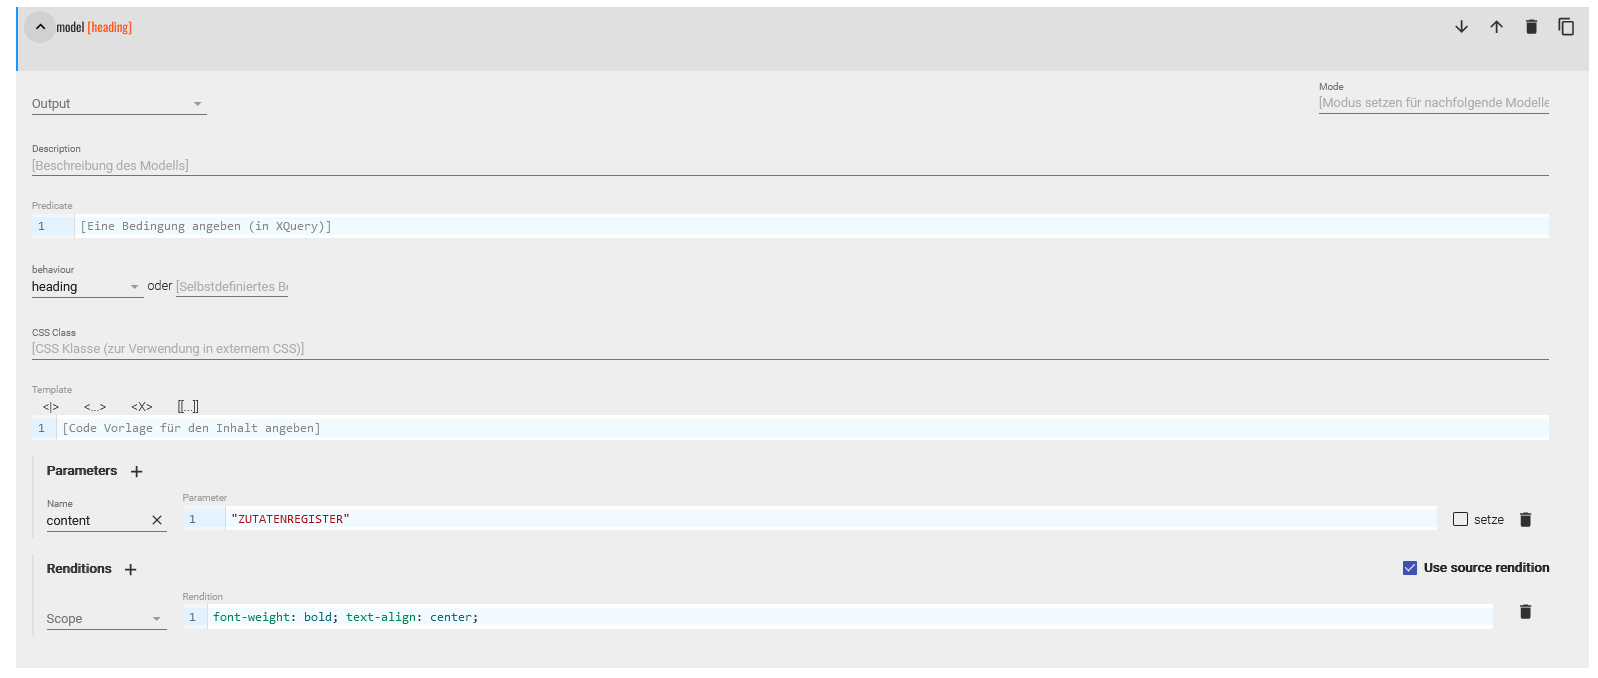
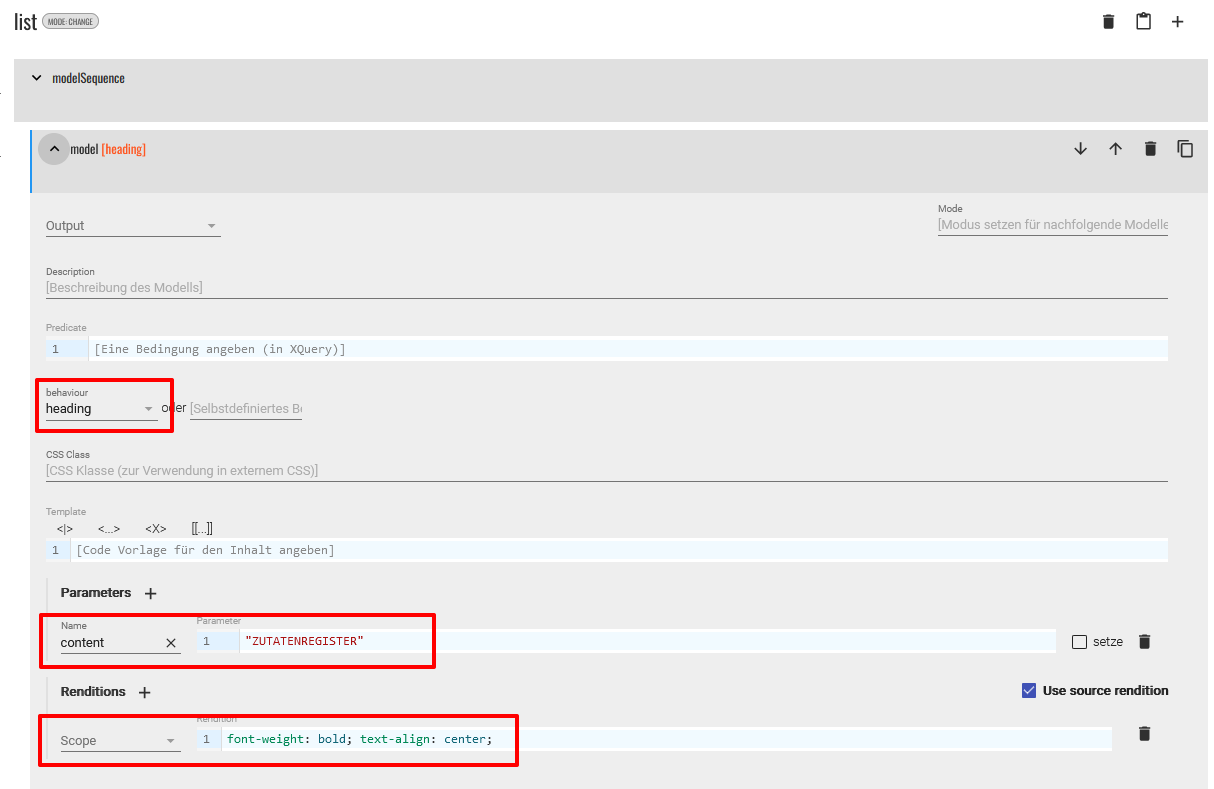
teipublisher update

diff --git a/_posts/2023-10-09-teipublisher.md b/_posts/2023-10-09-teipublisher.md
@@ -199,26 +199,26 @@ Für eine vollständige Publikationsansicht (Content View) benötigt man die TEI
     Wenn wir anschließend in einem anderen Browser-Tab die Manuskript-Ansicht öffnen (oder dieses aktualisieren), sehen wir unsere Änderungen bereits.
     {% include image.html url="../data/pipelines/pipeline_1/teipublisher/img/publication-view.PNG" description="Ansicht der ODD-Änderung im Manuskript" %}
     → Sollten die Änderungen nicht sichtbar sein, muss möglicherweise überprüft werden, ob das Dokument nach wie vor mit dem eigenen ODD verknüpft ist (da sich dies mitunter automatisch auf die Standardeinstellung zurücksetzt) oder ob man nach wie vor eingeloggt ist (da man oft selbst nach kürzeren Pausen automatisch ausgeloggt wird). Es kann auch nötig sein, mit F5 zu aktualisieren oder den Cache zu leeren, um die Änderungen zu sehen.
-* Wenn wir nun ein Element anlegen, das im Standard-ODD-Template noch keine Modul-Spezifikationen besitzt, wie in diesem Fall das `<term>`-Element, dann müssen wir nach dem Hinzufügen des Elements außerdem das Plus-Zeichen  in der Elementansicht anklicken. 
+* Wenn wir nun ein Element anlegen, das im Standard-ODD-Template noch keine Modul-Spezifikationen besitzt, wie in diesem Fall das `<term>`-Element, dann müssen wir nach dem Hinzufügen des Elements außerdem das Plus-Zeichen  in der Elementansicht anklicken.
     {% include image.html url="../data/pipelines/pipeline_1/teipublisher/img/add-new-element.PNG" description="Weitere Modulspezifikation hinzufügen" %}
-    Wir möchten unsere Zutaten mit einer punktierten Unterstreichung hervorheben und müssen daher in dem Eingabefeld für die Rendition den entsprechenden CSS-Code angeben: 
+    Wir möchten unsere Zutaten mit einer punktierten Unterstreichung hervorheben und müssen daher in dem Eingabefeld für die Rendition den entsprechenden CSS-Code angeben:
     ```css
-    text-decoration-line: underline; text-decoration-style: dotted; 
-    ``` 
+    text-decoration-line: underline; text-decoration-style: dotted;
+    ```
     Außerdem möchten wir in der Webansicht ein Popover über das `<term>`-Element legen, in dem einerseits der Wikidata-Link zu der in [OpenRefine erstellten normalisierten Entität](https://digedtnt.github.io/openrefine/) und andererseits eine Information mit Link zum Register erscheint. Zuerst stellen wir dafür das  behaviour auf "alternate" und geben zwei Parameter an. Einmal den "default"-Parameter, wo wir nur einen Punkt setzen, da wir standardmäßig den Inhalt des `<term>`-Elements angezeigt bekommen wollen, und als "alternate"-Parameter geben wir an, was im Popover angezeigt werden soll. Wir möchten hier gerne die Informationen aus dem Register anzeigen lassen und wählen daher den entsprechenden XPath dorthin:
     ```xml
     id(substring-after(@key, '#'), doc("/db/apps/tei-publisher/data/playground/Sachbegriffe.xml"))
     ```
     {% include image.html url="../data/pipelines/pipeline_1/teipublisher/img/model-term-odd.PNG" description="Bearbeitung des Modells des `<term>`-Elements im ODD" %}
-    Wenn wir nun wieder zur Ansicht unseres Dokuments wechseln, sehen wir, dass die Zutaten unterstrichen sind und beim Bewegen des Mauszeigers über die Zutat ein Popover mit allen Informationen aus dem Register, die es für das `<item>`-Element, auf welches das `<term>`-Element referenziert, erscheint. Da wir für die Kindelemente des `<item>`-Elements aus dem Register noch keine Modelle erstellt haben, werden vorerst nur die Inhalte dieser Elemente in direkter Aneinanderreihung ausgegeben. 
+    Wenn wir nun wieder zur Ansicht unseres Dokuments wechseln, sehen wir, dass die Zutaten unterstrichen sind und beim Bewegen des Mauszeigers über die Zutat ein Popover mit allen Informationen aus dem Register, die es für das `<item>`-Element, auf welches das `<term>`-Element referenziert, erscheint. Da wir für die Kindelemente des `<item>`-Elements aus dem Register noch keine Modelle erstellt haben, werden vorerst nur die Inhalte dieser Elemente in direkter Aneinanderreihung ausgegeben.
     {% include image.html url="../data/pipelines/pipeline_1/teipublisher/img/model-term-pub.PNG" description="Vorerst unstrukturierte Ausgabe der Informationen aus dem Register im Popover" %}
-    * Als nächstes passen wir die Modellspezifikationen der Kindelemente der Registereinträge an. Die `<item>`-Elemente in unserem Register (Sachbegriffe.xml), auf das wir verlinken,  beinhalten ein `<idno>`-Element mit der Wikidata-Referenz, ein `<label>`-Element mit dem Attribut `@type="reg"` für die reguläre Schreibweise sowie ein `<label>`-Element mit dem Attribut `@type="alt"` für die diversen frühneuhochdeutschen Varianten. 
+    * Als nächstes passen wir die Modellspezifikationen der Kindelemente der Registereinträge an. Die `<item>`-Elemente in unserem Register (Sachbegriffe.xml), auf das wir verlinken,  beinhalten ein `<idno>`-Element mit der Wikidata-Referenz, ein `<label>`-Element mit dem Attribut `@type="reg"` für die reguläre Schreibweise sowie ein `<label>`-Element mit dem Attribut `@type="alt"` für die diversen frühneuhochdeutschen Varianten.
     {% include image.html url="../data/pipelines/pipeline_1/teipublisher/img/register-structure.PNG" description="Aufbau des item-Elements im Register" %}
     Da wir einerseits den Inhalt des `<idno>`-Elements als Link im Popover haben möchten, zusätzlich aber noch eine Zeile mit einem Verweis auf das Register, müssen wir für diese zwei Aktionen zum gleichen Element zuerst eine Modellsequenz anlegen. Diese beschränken wir auf jene `<idno>`-Elemente mit dem Attribut `@type="uri"` und legen darin zwei weitere Modelle an.
     {% include image.html url="../data/pipelines/pipeline_1/teipublisher/img/model-sequence-idno-odd.PNG" description="Modellsequenz für das idno-Element" %}
-    In der ersten neu angelegten Modellspezifikation wählen wir anschließend als behaviour "link" aus. Bei den Parametern wählen wir nun "uri" und verweisen dabei mit einem Punkt auf den Inhalt `<idno>`-Elementes. 
+    In der ersten neu angelegten Modellspezifikation wählen wir anschließend als behaviour "link" aus. Bei den Parametern wählen wir nun "uri" und verweisen dabei mit einem Punkt auf den Inhalt `<idno>`-Elementes.
     {% include image.html url="../data/pipelines/pipeline_1/teipublisher/img/model-idno-link-odd.PNG" description="Modellspezifikation für einen Link" %}
-    In der zweiten Modellspezifikation möchten wir nun einen kleinen Informationstext mit Link zum Zutatenregister erstellen. Dafür wählen wir als behaviour "block" und erstellen ein Template in HTML für diese Text, der in einem `<div>`-Element angezeigt werden soll: 
+    In der zweiten Modellspezifikation möchten wir nun einen kleinen Informationstext mit Link zum Zutatenregister erstellen. Dafür wählen wir als behaviour "block" und erstellen ein Template in HTML für diese Text, der in einem `<div>`-Element angezeigt werden soll:
     ```html
     <div>Siehe weitere Schreibweisen dieser Zutat im <a href="[[register]]" traget="_blank">Register</a></div>
     ```
@@ -226,55 +226,89 @@ Für eine vollständige Publikationsansicht (Content View) benötigt man die TEI
     ```xml
     concat('Sachbegriffe.xml?view=div&#38;odd=ma-zutaten', '#’, parent::item/@xml:id')
     ```
-    Um in unserem Zutatenregister direkt zu der Zutat zu springen, dessen Popover gerade betrachtet wird, müssen wir die entsprechende XML-Datei (Sachbegriffe.xml) angeben, die aufgerufen werden soll, und zudem welches ODD-Template (ma-zutaten.odd ohne Dateiendung) für die Darstellung gewählt werden soll. Wir geben zudem an, dass nach dem Aufrufen des Registers, jenes Element ausgewählt werden soll, das wir gerade angewählt haben. (Näheres zum ma-zutaten.odd siehe unter Abschnitt [b. Bearbeitung des ODD des Zutatenregisters](https://digedtnt.github.io/teipublisher/#b-bearbeitung-des-odd-des-zutatenregisters)) Dafür gehen wir von dem `<idno>`-Element ausgehend, in das übergeordnete `<item>`-Element, dessen `@xml:id` auf die Zutat im Sachregister verweist (parent::item/@xml:id). 
+    Um in unserem Zutatenregister direkt zu der Zutat zu springen, dessen Popover gerade betrachtet wird, müssen wir die entsprechende XML-Datei (Sachbegriffe.xml) angeben, die aufgerufen werden soll, und zudem welches ODD-Template (ma-zutaten.odd ohne Dateiendung) für die Darstellung gewählt werden soll. Wir geben zudem an, dass nach dem Aufrufen des Registers, jenes Element ausgewählt werden soll, das wir gerade angewählt haben. (Näheres zum ma-zutaten.odd siehe unter Abschnitt [b. Bearbeitung des ODD des Zutatenregisters](https://digedtnt.github.io/teipublisher/#b-bearbeitung-des-odd-des-zutatenregisters)) Dafür gehen wir von dem `<idno>`-Element ausgehend, in das übergeordnete `<item>`-Element, dessen `@xml:id` auf die Zutat im Sachregister verweist (parent::item/@xml:id).
     {% include image.html url="../data/pipelines/pipeline_1/teipublisher/img/model-idno-block-odd.PNG" description="Zweites Modell für das idno-Element" %}
-    Nun muss abschließend noch die Darstellung der `<label>`-Elemente modifiziert werden. Damit diese nicht alle im Popover erscheinen, legen wir eine Modellspezifikation für alle  `<label>`-Elemente, unabhängig von ihrem Attributwert an. Da wir alle Elementinhalte ausblenden wollen, wählen wir als behaviour "omit" aus. 
+    Nun muss abschließend noch die Darstellung der `<label>`-Elemente modifiziert werden. Damit diese nicht alle im Popover erscheinen, legen wir eine Modellspezifikation für alle  `<label>`-Elemente, unabhängig von ihrem Attributwert an. Da wir alle Elementinhalte ausblenden wollen, wählen wir als behaviour "omit" aus.
     {% include image.html url="../data/pipelines/pipeline_1/teipublisher/img/model-label-odd.PNG" description="Modellspezifikation für das Unterdrücken von label-Elementen" %}
     Wenn wir uns jetzt erneut unser aktualisiertes Dokument ansehen und die Maus über eine Zutat bewegen, sieht der Inhalt des Popovers bereits anders aus.
     {% include image.html url="../data/pipelines/pipeline_1/teipublisher/img/model-term-idno-pop-over.PNG" description="Modifiziertes Popover mit einem Link zu Wikidata und zum projektspezifischen Register" %}
-    Während uns der obere Link direkt zur entsprechenden Wikidata-Entität führt, kommen wir über den Link zum Register direkt an die entsprechende Stelle im Zutatenregister, wo die ausgewählte Zutat in die Mitte des Browsertabs gerückt wird. 
+    Während uns der obere Link direkt zur entsprechenden Wikidata-Entität führt, kommen wir über den Link zum Register direkt an die entsprechende Stelle im Zutatenregister, wo die ausgewählte Zutat in die Mitte des Browsertabs gerückt wird.
     {% include image.html url="../data/pipelines/pipeline_1/teipublisher/img/popover-to-register.PNG" description="Verknüpfung mit der Zutat im Register" %}
-* In der XML-Datei unseres Projektes haben wir nun außerdem noch Auszeichnungen  für Streichungen und Hinzufügungen durch die/den ursprüngliche:n Schreiber:in in Form von `<del>` und `<add>`, Abkürzungen und deren Langform im `<choice>`-Element, Hinzufügungen durch Editor:innen oder Transkribierende als `<supplied>` und Fußnoten als `<note>`. Unser projektspezifisches ODD wurde auf Basis eines Standard-ODD generiert, in dem bereits einige grundlegende Modellspezifikationen für jene Elemente angelegt wurden, die häufig in digitalen Editionen vorkommen. Dementsprechend gibt es auch für alle genannten Elemente bereits Modelle. Während einige dieser Standard-Darstellungen ganz gut für unser Projekt passen, möchten wir andere noch anpassen. 
-* Starten wir also der Reihe nach zuerst mit der Modellspezifikation für `<del>`. Diese sieht standardmäßig als Rendition einen durchgestrichenen Text vor. Da dieses Element laut [Auszeichnungsrichtlinien für Manuskripte im DTA-Basisformat](https://www.deutschestextarchiv.de/doku/basisformat/msAddDel.html) (dessen Schema wir im Zuge der [Annotation in ediarum](https://digedtnt.github.io/ediarum/) verwendet haben) jedoch verschiedene Werte im `@rendition`-Attribut haben kann, wollen wir im Modell für das `<del>`-Element etwas spezifischer sein und fügen dort hinzu, dass das Rendering als durchgestrichener Text nur für `<del>`-Elemente mit `@rendition="#s"` gelten soll. 
-    {% include image.html url="../data/pipelines/pipeline_1/teipublisher/img/model-del-odd.PNG" description="Angabe einer Bedingung (Predicate) im Model des del-Elements" %} 
-    In der Publikationsansicht des TEI Publisher sehen `<del>`-Elemente entsprechend so aus: 
+* In der XML-Datei unseres Projektes haben wir nun außerdem noch Auszeichnungen  für Streichungen und Hinzufügungen durch die/den ursprüngliche:n Schreiber:in in Form von `<del>` und `<add>`, Abkürzungen und deren Langform im `<choice>`-Element, Hinzufügungen durch Editor:innen oder Transkribierende als `<supplied>` und Fußnoten als `<note>`. Unser projektspezifisches ODD wurde auf Basis eines Standard-ODD generiert, in dem bereits einige grundlegende Modellspezifikationen für jene Elemente angelegt wurden, die häufig in digitalen Editionen vorkommen. Dementsprechend gibt es auch für alle genannten Elemente bereits Modelle. Während einige dieser Standard-Darstellungen ganz gut für unser Projekt passen, möchten wir andere noch anpassen.
+* Starten wir also der Reihe nach zuerst mit der Modellspezifikation für `<del>`. Diese sieht standardmäßig als Rendition einen durchgestrichenen Text vor. Da dieses Element laut [Auszeichnungsrichtlinien für Manuskripte im DTA-Basisformat](https://www.deutschestextarchiv.de/doku/basisformat/msAddDel.html) (dessen Schema wir im Zuge der [Annotation in ediarum](https://digedtnt.github.io/ediarum/) verwendet haben) jedoch verschiedene Werte im `@rendition`-Attribut haben kann, wollen wir im Modell für das `<del>`-Element etwas spezifischer sein und fügen dort hinzu, dass das Rendering als durchgestrichener Text nur für `<del>`-Elemente mit `@rendition="#s"` gelten soll.
+    {% include image.html url="../data/pipelines/pipeline_1/teipublisher/img/model-del-odd.PNG" description="Angabe einer Bedingung (Predicate) im Model des del-Elements" %}
+    In der Publikationsansicht des TEI Publisher sehen `<del>`-Elemente entsprechend so aus:
     {% include image.html url="../data/pipelines/pipeline_1/teipublisher/img/model-del-pub.PNG" description="Rendering des del-Elements in der Publikationsansicht" %}
-* Gehen wir im ODD-Editor nun zu den Spezifikationen des `<add>`-Elements. Auch dort nehmen wir ein paar Änderungen vor, indem wir das bestehende Modell auf das Attribut `@place="superlinear"`-Element beschränken und dort die Darstellung mit dem entsprechenden CSS Code insofern adaptieren, dass diese eingefügten Textstellen hochgestellt und in einem Braunton erscheinen. 
-    {% include image.html url="../data/pipelines/pipeline_1/teipublisher/img/model-add-odd.PNG" description="Anpassung der Modellspezifikation für add-Elemente" %} 
+* Gehen wir im ODD-Editor nun zu den Spezifikationen des `<add>`-Elements. Auch dort nehmen wir ein paar Änderungen vor, indem wir das bestehende Modell auf das Attribut `@place="superlinear"`-Element beschränken und dort die Darstellung mit dem entsprechenden CSS Code insofern adaptieren, dass diese eingefügten Textstellen hochgestellt und in einem Braunton erscheinen.
+    {% include image.html url="../data/pipelines/pipeline_1/teipublisher/img/model-add-odd.PNG" description="Anpassung der Modellspezifikation für add-Elemente" %}
     Nach dem Aktualisieren in der Publikationsansicht, wird das `<add>`-Element entsprechend unserer Änderungen dargestellt.
     {% include image.html url="../data/pipelines/pipeline_1/teipublisher/img/model-del-pub.PNG" description="Rendering des add-Elements in der Publikationsansicht" %}
-* Für `<choice>`-Elemente gibt es ebenfalls bereits Voreinstellungen, die beim Generieren des projektspezifischen ODD mitübernommen wurden. Standardmäßig wird dabei die Langform ausgegeben und die Abkürzung in einem Popover angezeigt. Wir möchten dies jedoch umkehren und wie im Originaltext nur die Abkürzung anzeigen und diese farblich markieren, um Nutzer:innen unserer Edition anzuzeigen, dass diese Textstelle besonders ist und somit eine Erkundung der Stelle mit der Maus zu motivieren. Im Popover wird schließlich die Langform angezeigt. 
-    {% include image.html url="../data/pipelines/pipeline_1/teipublisher/img/model-choice-odd.PNG" description="Änderung der Modellspezifikation für choice-Elemente" %} 
+* Für `<choice>`-Elemente gibt es ebenfalls bereits Voreinstellungen, die beim Generieren des projektspezifischen ODD mitübernommen wurden. Standardmäßig wird dabei die Langform ausgegeben und die Abkürzung in einem Popover angezeigt. Wir möchten dies jedoch umkehren und wie im Originaltext nur die Abkürzung anzeigen und diese farblich markieren, um Nutzer:innen unserer Edition anzuzeigen, dass diese Textstelle besonders ist und somit eine Erkundung der Stelle mit der Maus zu motivieren. Im Popover wird schließlich die Langform angezeigt.
+    {% include image.html url="../data/pipelines/pipeline_1/teipublisher/img/model-choice-odd.PNG" description="Änderung der Modellspezifikation für choice-Elemente" %}
     Zurück in der Publikationsansicht können wir nun unsere Änderungen sehen. Außerdem ist in diesem Screenshot auch die voreingestellte Darstellung vom Basis-ODD des TEI Publishers für das `<supplied>`-Elemente ersichtlich, bei der die editorische Hinzufügung mittels eckigen Klammern um den Zusatz gekennzeichnet wird.
     {% include image.html url="../data/pipelines/pipeline_1/teipublisher/img/model-choice-supplied-pub.PNG" description="Darstellung von choice- und supplied-Elemente" %}
 * Zuletzt haben wir noch die `<note>`-Elemente für Fußnoten, für die wir ebenfalls die bereits festgelegten Modellspezifikationen übernehmen und keine Änderungen vornehmen.
     {% include image.html url="../data/pipelines/pipeline_1/teipublisher/img/model-footnote-pub.PNG" description="Übernahme der Standard-Modellspezifikation von Fußnoten" %}
-* Mitunter kann es sein, dass man mehrere Modelle für ein spezifisches Element anlegen möchte, ohne dass diese sich gegenseitig überschreiben. Dafür gibt es die Möglichkeit, mit `<modelSequence>` zu arbeiten, in dem alle darin befindlichen Modelle für ein Element nacheinander abgearbeitet werden. 
+* Mitunter kann es sein, dass man mehrere Modelle für ein spezifisches Element anlegen möchte, ohne dass diese sich gegenseitig überschreiben. Dafür gibt es die Möglichkeit, mit `<modelSequence>` zu arbeiten, in dem alle darin befindlichen Modelle für ein Element nacheinander abgearbeitet werden.
 Wir nutzen diese Eigenschaft nun für unsere `<div>`-Elemente, die jeweils den ausgezeichneten Text der einzelnen Manuskriptseiten beinhalten. Von diesen Elementen ausgehend wollen wir nämlich jeweils auf die `<pb>`-Elemente zugreifen wollen, um einerseits die Webkomponente zu erstellen, die die Faksimiles verlinkt, sowie die Seitenzahl auch anzeigen zu lassen, und andererseits aber auch den Inhalt des  `<div>`-Elements anzuzeigen. Wir erstellen also eine Modellsequenz für das `<div>`-Element und beschränken dieses mit dem Predicate `preceding-sibling::pb` auf jene  `<div>`-Elemente, denen ein  `<pb>`-Elemente auf gleicher Ebene vorangeht. In der Modellsequenz erstellen wir anschließend insgesamt 2 Modelle:
-    * Zuerst benötigen wir ein Modell mit dem behaviour "block", das in der Ausgabe des `<div>`-Elements auf das vorhergehende `<pb>`-Element zugreift und anschließend nur die letzten 4 Zeichen ausgibt, da diese die Seitenzahl sowie die zusätzliche Information, ob es sich bei der Manuskriptseite um eine Vorder- oder Rückseite handelt, enthält. Um die Seitenzahl möchten wir außerdem eckige Klammern legen, um anzuzeigen, dass dies ein editorischer Zusatz ist und kein Teil der Transkription. Für den content-Parameter fügen wir dabei folgenden XPath-Ausdruck ein: 
+    * Zuerst benötigen wir ein Modell mit dem behaviour "block", das in der Ausgabe des `<div>`-Elements auf das vorhergehende `<pb>`-Element zugreift und anschließend nur die letzten 4 Zeichen ausgibt, da diese die Seitenzahl sowie die zusätzliche Information, ob es sich bei der Manuskriptseite um eine Vorder- oder Rückseite handelt, enthält. Um die Seitenzahl möchten wir außerdem eckige Klammern legen, um anzuzeigen, dass dies ein editorischer Zusatz ist und kein Teil der Transkription. Für den content-Parameter fügen wir dabei folgenden XPath-Ausdruck ein:
         ```xml
         root(.)//concat("[", substring(//pb[1]/@n, string-length(//pb[1]/@n)-3), "]")
         ```
-        Außerdem geben wir hinsichtlich der Rendition an, dass die Seitenangabe grau und zentriert ausgegeben werden soll. 
+        Außerdem geben wir hinsichtlich der Rendition an, dass die Seitenangabe grau und zentriert ausgegeben werden soll.
         {% include image.html url="../data/pipelines/pipeline_1/teipublisher/img/model-pb-block-odd.PNG" description="Modell zur Anzeige der Seitenzahl" %}
-    * Das zweite Modell soll das Einbinden der Faksimiles regeln. Diese Modellspezifikation verschieben wir nach dem Anlegen nun an die letzte Stelle in der Sequenz, und nutzen einen XPath-Ausdruck im Predicate, um anzugeben, dass diese Spezifikation nur für jene `<div>`-Elemente gelten soll, denen ein `<pb>`-Element mit einem `@facs`-Attribut vorausgeht. Als behaviour wählen wir in diesem Fall "webcomponent" aus und setzen für diese Komponente die entsprechenden Parameter. Das Verbindungselement zwischen dem Faksimile und dem Text trägt den Namen "pb-facs-link" und enthält die Attribute `@emit` mit dem Wert "transcription", das für den Kanal steht, über den kommuniziert wird. Der Pfad zum Faksimile, auf das verwiesen wird, befindet sich letztlich im `@facs`-Attribut des `<pb->`-Elements vor dem `<div>` - wobei wir über den Wert im `@facs` zur `@xml:id` in der `<graphic>` gelangen und dort die `@url` wählen, die die URI zu unseren Faksmilies enthält. 
+    * Das zweite Modell soll das Einbinden der Faksimiles regeln. Diese Modellspezifikation verschieben wir nach dem Anlegen nun an die letzte Stelle in der Sequenz, und nutzen einen XPath-Ausdruck im Predicate, um anzugeben, dass diese Spezifikation nur für jene `<div>`-Elemente gelten soll, denen ein `<pb>`-Element mit einem `@facs`-Attribut vorausgeht. Als behaviour wählen wir in diesem Fall "webcomponent" aus und setzen für diese Komponente die entsprechenden Parameter. Das Verbindungselement zwischen dem Faksimile und dem Text trägt den Namen "pb-facs-link" und enthält die Attribute `@emit` mit dem Wert "transcription", das für den Kanal steht, über den kommuniziert wird. Der Pfad zum Faksimile, auf das verwiesen wird, befindet sich letztlich im `@facs`-Attribut des `<pb->`-Elements vor dem `<div>` - wobei wir über den Wert im `@facs` zur `@xml:id` in der `<graphic>` gelangen und dort die `@url` wählen, die die URI zu unseren Faksmilies enthält.
         {% include image.html url="../data/pipelines/pipeline_1/teipublisher/img/model-pb-webcomponent-odd.PNG" description="Modell zur Einbindung der Faksimiles" %}
-        → Damit die Faksimiles tatsächlich angezeigt werden, müssen wir noch weitere Adaptionen vornehmen, die im Abschnitt [c.) Bearbeitung des Page Templates](https://digedtnt.github.io/teipublisher/#c-bearbeitung-des-page-templates--weitere-odd-anpassungen) näher ausgeführt sind. 
+        → Damit die Faksimiles tatsächlich angezeigt werden, müssen wir noch weitere Adaptionen vornehmen, die im Abschnitt [c.) Bearbeitung des Page Templates](https://digedtnt.github.io/teipublisher/#c-bearbeitung-des-page-templates--weitere-odd-anpassungen) näher ausgeführt sind.
     Mit all diesen Adaptionen haben wir aber jedenfalls in der Publikationsansicht eine zusätzliche Zeile vor Textbeginn erzeugt.
     {% include image.html url="../data/pipelines/pipeline_1/teipublisher/img/model-pb-pub.PNG" description="Publikationsansicht mit zusätzlicher Seitenangabe" %}
 
 
+### b. Bearbeitung des ODD des Zutatenregisters
+
+In unserem Projekt gibt es aber nicht nur die XML-Dateien für das Manuskript, sondern noch eine weitere XML-Datei, die das Zutatenregister beinhaltet. Da wir für dieses Register eine andere Publikationsansicht haben möchten, müssen wir hierfür ein eigenes ODD erstellen.
+
+* Zuerst laden wir unser Sachbegriffe.xml in der Spielwiese, wo wir auch unsere Manuskript-Dateien hochgeladen haben, hoch. Nach erfolgreichem Upload können wir sie in der Dokumentenliste der Spielwiese einsehen. Danach legen wir uns unter ODD Dateien (am Seitenende) eine ODD-Datei unter dem Dokumentnamen ma-zutaten und der Bezeichnung “MA Zutaten” an.
+    {% include image.html url="../data/pipelines/pipeline_1/teipublisher/img/register-new-odd.PNG" description="Hochladen des Registers und Erstellung eines weiteren ODD" %}
+    → Möglicherweise muss die Seite aktualisiert werden, damit alle neu erstellten oder hochgeladenen Dokumente sichtbar sind.
+* Wenn wir nun unser Register öffnen, sehen wir in der Publikationsansicht mit dem Standard-Template, das unser Register als eine Liste mit allen Informationen zu den einzelnen Zutaten ausgegeben wird. Denn das Zutatenregister besteht aus einem `<list>`-Element mit vielen `<item>`-Elementen für die einzelnen Zutaten, und in dem Standard-Template sind nur für `<list>`- sowie `<item>`-Elemente Modelspezifikationen vordefiniert. Alle anderen Elemente, für die es keine Regeln gibt, werden in Textform ausgegeben.
+    {% include image.html url="../data/pipelines/pipeline_1/teipublisher/img/register-link-odd.PNG" description="Verknüpfung des Register-XMLs mit eigenem ODD" %}
+    Wir verbinden unser neu erstelltes ODD mit unserem Register und belassen bei der Auswahl der HTML-Templates das Standard-Template verknüpft.
+* Danach wechseln wir in den ODD-Editor zur Anpassung des neuen ODD und beginnen damit, dem Register eine Überschrift zu geben. Dafür öffnen wir über das linke Seitenmenü das  `<list>`-Element, wo es bereits ein vordefiniertes Modell mit dem behaviour “list” gibt. Da wir über diese Liste nun die Überschrift setzen wollen und zusätzlich die Listenelemente ausgeben wollen, benötigen wir wieder eine Modellsequenz. Diese Modellsequenz soll nun einerseits ein Modell für die Überschrift und eine für die Ausgabe der Listenelemente beinhalten, weshalb wir 2 Modelle erstellen.
+    {% include image.html url="../data/pipelines/pipeline_1/teipublisher/img/model-sequence-list-register.PNG" description="Modellsequenz für das list-Element" %}
+    Das erste der beiden Modelle in der Sequenz bekommt das behaviour “heading” und der Inhalt der Überschrift soll “Zutatenregister” in Großbuchstaben sein, was wir dementsprechend in den Parametern festhalten. Außerdem geben wir für die Rendition an, dass die Überschrift fettgedruckt und mittig ausgegeben werden soll.
+    {% include image.html url="../data/pipelines/pipeline_1/teipublisher/img/model-list-heading.PNG" description="Überschrift für das Zutatenregister" %}
+    Damit nun auch der Inhalt der Liste und nicht nur die Überschrift angezeigt wird, setzen wir beim zweiten Modell der Sequenz das behaviour auf “section”. Bei den Parametern müssen wir nichts ändern, da standardmäßig der Inhalt des Elementes, für das eine Modellspezifikation erstellt wird, dem “content”-Parameter zugeordnet wird.
+* Das Modell für die `<item>`-Elemente ändern wir auch nur sehr geringfügig. Diesem Element ist standardmäßig das behaviour “listItem” zugeordnet, das wir genau so belassen wollen. Wir möchten nur den Abstand zwischen den Listenelementen etwas vergrößern, weshalb wir die Rendition entsprechend anpassen.
+    {% include image.html url="../data/pipelines/pipeline_1/teipublisher/img/model-item-register.PNG" description="Nur kleine Änderungen hinsichtlich des Listenabstands" %}
+* Kommen wir nun zu den Kindelementen des `<item>`-Elements und beginnen wir mit dem `<idno>`. Dieses wollen wir gar nicht ausgeben bzw. die Information später nur anderweitig im Hintergrund für einen Link verwenden. Insofern müssen wir für das `<idno>`-Element nur eine Modellspezifikation anlegen, die mit dem behaviour “omit” attribuiert wird. Zusätzlich wird dieses Modell noch auf jene Elemente eingeschränkt, die das Attribut `@type=”uri”` besitzen.
+    {% include image.html url="../data/pipelines/pipeline_1/teipublisher/img/model-idno-omit-register.PNG" description="Unterdrückung des idno-Elements mit dem Wikidata-Link" %}
+* Die nachfolgenden Kindelement im `<item>`-Element sind die `<label>`-Elemente mit einer regulären Schreibweise im modernen Standarddeutsch, die den Attributwert “reg”  führen, und allen weiteren frühneuhochdeutschen Varianten, die mit dem Attributwert “alt” ausgezeichnet sind. Insgesamt haben wir 4 Vorhaben, die jeweils unterschiedliche behaviour verlangen. Daher benötigen wir wieder eine Modellsequenz mit 4 Modellen.
+    {% include image.html url="../data/pipelines/pipeline_1/teipublisher/img/model-sequence-label-register.PNG" description="Modellsequenz für das label-Element" %}
+    Gehen wir diese Modelle und erwünschten Verhaltensweise einzeln durch:
+        * Unser erstes Modell ist für `<label>`-Elemente mit dem Attributwert “reg” bestimmt und soll vor den tatsächlichen Inhalt des Elements das fettgedruckte Wort “Zutat” stellen. Dementsprechend sieht diese Modellspezifikation aus:
+        {% include image.html url="../data/pipelines/pipeline_1/teipublisher/img/model-label-reg-register.PNG" description="Zusatz zum Link des Registereintrags" %}
+        * Das zweite Modell bezieht sich ebenfalls auf `<label type=”reg”>`-Elemente. Diesmal möchten wir jedoch den Inhalt sehr wohl ausgeben, diesen aber mit einem Link hinterlegen. Daher wählen wir nun als behaviour “link” und verweisen dann im uri-Parameter auf das vorhergehende `<idno>`-Element, welches den Link zur Wikidata-Entität enthält. Zudem verändern wir wieder typographische Merkmale mit ein wenig CSS-Code.
+        {% include image.html url="../data/pipelines/pipeline_1/teipublisher/img/model-label-reg-link-register.PNG" description="Link zu Wikidata unter der regulären Schreibweise der Zutat" %}
+        * Als nächstes möchten wir eine informative Zeile einbauen, die angibt, dass es sich nachfolgend (bei den `<label type=”alt”>`-Elementen) um alternative Schreibweisen im Frühneuhochdeutschen handelt. Erneut erstellen wir ein Modell für das vorhergehende `<label type=”alt”>`-Element, da wir andernfalls diesen Informationstext vor jeder Schreibvariante stehen hätten. Die Modellspezifikation enthält als behaviour den Wert “block” und im content-Parameter die gewünschte Zusatzinformation. Mittels dem Abschnitt zur Rendition legen wir fest, dass dieser Text unterstrichen werden soll.
+        {% include image.html url="../data/pipelines/pipeline_1/teipublisher/img/model-label-reg-block-register.PNG" description="Erzeugung einer Überschriftszeile" %}
+        * Zu guter Letzt passen wir nun noch die Modellspezifikation jener `<label>`-Elemente mit dem Attributwert “alt” an. In der standardmäßigen Ausgabe werden die Inhalte dieser Elemente nacheinander als inline-Elemente ausgegeben. Hier möchten wir noch Beistriche zwischen die einzelnen Varianten setzen. Dies machen wir mit folgendem XPath im content-Parameter:
+        ```xml
+        concat(.,
+            if (following-sibling::label[1][@type='alt'])
+            then ','
+            else '')
+        ```
+        Dem letzten `<label>`-Element in dieser Sequenz wird demnach kein Beistrich mehr nachgestellt.
+        Insgesamt sieht die Modellspezifikation folgendermaßen aus:
+        {% include image.html url="../data/pipelines/pipeline_1/teipublisher/img/model-label-alt-inline-register.PNG" description="Trennung von alternativen Schreibweisen mit Komma" %}
+    Nachdem wir all diese Anpassungen vorgenommen haben, wechseln wir in die Publikationsansicht, aktualisieren diese und haben nun eine unseren Vorstellungen angepasste Webansicht des Zutatenregisters.
+    {% include image.html url="../data/pipelines/pipeline_1/teipublisher/img/register-pub.PNG" description="Publikationsansicht des Zutatenregisters" %}
 
 
 
-### c. Bearbeitung des ODD des Zutatenregisters
 
-[In Arbeit]
-
-
-
-
-### b. Bearbeitung des Page Templates (+ weitere ODD-Anpassungen)
+### c. Bearbeitung des Page Templates (+ weitere ODD-Anpassungen)
 * Da wir in unserem Projekt über die Faksimiles unserer Manuskripte verfügen, möchten wir für die Publikation eine Bild-Text-Synopse erstellen. Dies lässt sich im TEI Publisher über die Webkomponente `<pb-facsimile>` realisieren. Der einfachste Weg, um dies umzusetzen, besteht darin, dass wir uns zuerst ein Template kopieren, das diese synoptische Ansicht bereits integriert hat. Da im Demo-Ordner des TEI Publishers das Template, das für die XML-Struktur des Projekts Immanuel Kant unserem importierten XML-Dokument sehr nahe kommt, wollen wir dieses Template für uns nutzen. Dafür navigieren wir in eXide unter "Open" in der Ordnerstruktur zu dem Template des Deutschen Textarchivs (dta.html), indem wir folgenden Pfad nutzen: '/db/apps/tei-publisher/templates/pages/'
     {% include image.html url="../data/pipelines/pipeline_1/teipublisher/img/exide-template.PNG" description="Öffnen eines bereits bestehenden Templates in eXide" %}
     Wir ändern in diesem Template nur im `<meta>`-Element mit dem Attribut `@name="description"` den Wert des Attributs `@content` auf "MA Rezepte Template" und entfernen weiter unten im Dokument im `<pb-facsimile>`-Element den Wert aus dem Attribut `@base-uri`, da wir in den `<graphic>`-Elementen in unserem XML, bereits den gesamten Pfad zum Faksimile angegeben haben.
@@ -293,28 +327,28 @@ Wir nutzen diese Eigenschaft nun für unsere `<div>`-Elemente, die jeweils den a
     Nach erneutem Aktualisieren in der Dokumentansicht werden die entsprechenden Faksimiles nun zu jeder Manuskriptseite in den [OpenSeadragon](http://openseadragon.github.io/)-Viewer geladen.
     {% include image.html url="../data/pipelines/pipeline_1/teipublisher/img/faksimile-viewer.PNG" description="Vollständige Bild-Text-Synopse" %}
 
-* Eine weitere Webkomponente, die uns die Seitennavigation im Manuskript erleichtert, ist [`<pb-navigation>`](https://cdn.tei-publisher.com/@2.12.6/dist/api.html#pb-navigation.0). Auch hier nutzen wir wieder die Beispielprojekte der Demo-Sammlung, in der wir gleich im ersten Beispiel (Adagia in Latine and English) die entsprechenden Navigationsbuttons finden. Wenn wir in der Seitenleiste nun überprüfen, welches Template eingebunden wurde, können wir sehen, dass dieses Beispielprojekt das **Default single text layout** nutzt.  
-    {% include image.html url="../data/pipelines/pipeline_1/teipublisher/img/webcomponent-navigation.PNG" description="Demo-Projekt mit Navigationsbuttons" %} 
-    Wir öffnen daher in eXide das entsprechende Template (view.html) und können erneut per "Copy-Paste" die gewünschte Webkomponenten - in diesem Fall die jeweiligen `<pb-navigation>`-Komponenten des `<main>`-Abschnitts vor und nach der `<pb-view>`-Webkomponente - auswählen und in unser projektspezifisches Template an entsprechender Stelle vor und nach den anderen Webkomponenten des `<main>`-Abschnitts einbauen. Dadurch ersparen wir uns die Suche in der Dokumentation nach entsprechenden Komponenten bzw. müssen die Webkomponenten nicht selbst anlegen.  
-    {% include image.html url="../data/pipelines/pipeline_1/teipublisher/img/webcomponent-nav-html.PNG" description="Wiederverwendung bereits bestehender Webkomponenten" %} 
-    In der Dokumentenansicht sehen wir nun, dass die Navigationsbutton noch nicht an gewünschter Stelle sind. 
-    {% include image.html url="../data/pipelines/pipeline_1/teipublisher/img/webcomponent-nav-view.PNG" description="Eingefügte Navigationsbuttons" %} 
-    Um diese Elemente entsprechend anzupassen, müssen wir die CSS-Informationen ändern. Hier können wir ebenfalls aus dem Template des Demo-Projekts die für das Styling der Navigationsbutton verantwortlichen Regeln übernehmen und in unser projektspezifisches Template übernehmen. 
-    {% include image.html url="../data/pipelines/pipeline_1/teipublisher/img/webcomponent-nav-style-html.PNG" description="Übernahme der Stylingregeln aus dem Basis-Template" %} 
-    Wir kopieren die Informationen unter die Styling-Informationen für die Faksimile-Webkomponente und ändern dabei noch die Farbe der Navigationsbutton. 
-    {% include image.html url="../data/pipelines/pipeline_1/teipublisher/img/webcomponent-nav-style-html.PNG" description="Eingefügte Navigationsbuttons" %} 
-    Nach dem Aktualisieren der Publikationsansicht unseres Manuskripts, haben die Buttons nun eine andere Farbe und sind vertikal mittig ausgerichtet.  
-    {% include image.html url="../data/pipelines/pipeline_1/teipublisher/img/webcomponent-nav-style-view.PNG" description="Angepasste Navigationsbuttons" %} 
-* In der Publikationsansicht möchten wir nun außerdem für die einzelnen Manuskripte auch die Metadaten darstellen. In der Demo-Sammlung haben wir dabei in dem Projekt "Mauritius Ferber" eine ein- und ausklappbare Metadaten-Darstellung gefunden, die wir für unser Projekt nachnutzen wollen. Wir navigieren dafür in eXide zu dem entsprechenden Page-Template (danticus.html). Dort finden wir innerhalb des `<app-header>`-Abschnitts sogar einen Hinweis darauf, dass in der entsprechenden Darstellung die Toolbar, die eigentlich nur das Inhaltsverzeichnis anzeigt, um ein Toggle-Element für die Metadaten ergänzt wurde.  
-    {% include image.html url="../data/pipelines/pipeline_1/teipublisher/img/metadata-html-copy.PNG" description="Kopieren der Metadaten-Komponente" %} 
-    Um diesen Button in unsem Page-Template zu übernehmen, kopieren wir also die zweite `<app-toolbar>` im `<app-header>` und fügen diese an gleicher Stelle in unser projektspezifisches HTML-Template ein. Wie bei den Copy-Paste-Aktionen für andere Webkomponenten dürfen wir hier ebenfalls nicht vergessen, zusätzlich auch den CSS-Code für die ausklappbare Metadaten-Anzeige zu übernehmen.  
-    {% include image.html url="../data/pipelines/pipeline_1/teipublisher/img/metadata-html-paste.PNG" description="Einfügen des Codes für den Metadatenbutton sowie Erweiterung des CSS" %} 
-    Wenn wir in der Publikationsansicht unser Browser-Fenster aktualisieren, erscheint nun oben links in der Navigationsleiste ein Metadaten-Button.  
-    {% include image.html url="../data/pipelines/pipeline_1/teipublisher/img/metadata-button.PNG" description="Erweiterung der Navigationsleiste um einen Metadaten-Button" %} 
-    Um diesen ausklappbaren Seitenbereich mit Metadaten zu füllen, müssen wir jedoch noch ein paar Anpassungen in unserem ODD vornehmen. 
-* Wir wechseln also noch mal in den ODD-Editor und suchen dort nach den Modellspezifikationen für den `<teiHeader>`. Wir legen hier ein neues Inline-Modell an und weisen dieses Modell aber mit der XQuery-Angabe  `$parameters?mode=’commentary’`im Predicate darauf hin, dass dieses Modell für die zuvor im HTML-Template angelegte Metadaten-Toggle-Komponente gilt. Im Metadatenbereich möchten wir einerseits Informationen zum Repository, zur Signatur sowie zur physischen Beschreibung des Manuskripts anzeigen. Dementsprechend basteln wir ein Template in HTML mit Überschriften und geben in doppelten eckigen Klammern Platzhalter-Elemente an, denen wir darunter die entsprechenden Parameter zuordnen: Unter [[repository]] im Template sollen schließlich jene Daten angegeben werden, die wir im teiHeader im Element `<repository>` finden. Daher geben wir bei diesem Parameter vom `<teiHeader>` ausgehend den entsprechenden Pfad //repository an. Genauso gehen wir auch für die weiteren Parameter vor. Bei dem `<idno>`-Element müssen wir jedoch etwas genauer spezifizieren, da es einerseits die `<idno>`-Elemente in unserem Register im `<standOff>` gibt, und andererseits aber auch das `<idno>`-Element im `<teiHeader>`. Daher fügen wir hier als XPath-Bedingung noch das Attribut `@type="shelfmark"` hinzu. Zuletzt stellen wir noch sicher, dass es für all die in den Parametern angegebenen Elemente auch tatsächlich Modellspezifikationen gibt. Dabei reicht es, dass es für jedes Element, das wir in den Metadaten ausgeben wollen, ein Inline-Modell existiert.  
-    {% include image.html url="../data/pipelines/pipeline_1/teipublisher/img/model-teiheader-odd.PNG" description="Anpassungen des teiHeader-Modells für die Metadatenausgabe" %} 
-    Wenn wir schließlich alle Modelle erstellt haben und die Publikationsansicht aktualisieren, erscheint nach einem Klick auf den Metadaten-Button nun auch ein Metadaten-Inhalt.  
+* Eine weitere Webkomponente, die uns die Seitennavigation im Manuskript erleichtert, ist [`<pb-navigation>`](https://cdn.tei-publisher.com/@2.12.6/dist/api.html#pb-navigation.0). Auch hier nutzen wir wieder die Beispielprojekte der Demo-Sammlung, in der wir gleich im ersten Beispiel (Adagia in Latine and English) die entsprechenden Navigationsbuttons finden. Wenn wir in der Seitenleiste nun überprüfen, welches Template eingebunden wurde, können wir sehen, dass dieses Beispielprojekt das **Default single text layout** nutzt.
+    {% include image.html url="../data/pipelines/pipeline_1/teipublisher/img/webcomponent-navigation.PNG" description="Demo-Projekt mit Navigationsbuttons" %}
+    Wir öffnen daher in eXide das entsprechende Template (view.html) und können erneut per "Copy-Paste" die gewünschte Webkomponenten - in diesem Fall die jeweiligen `<pb-navigation>`-Komponenten des `<main>`-Abschnitts vor und nach der `<pb-view>`-Webkomponente - auswählen und in unser projektspezifisches Template an entsprechender Stelle vor und nach den anderen Webkomponenten des `<main>`-Abschnitts einbauen. Dadurch ersparen wir uns die Suche in der Dokumentation nach entsprechenden Komponenten bzw. müssen die Webkomponenten nicht selbst anlegen.
+    {% include image.html url="../data/pipelines/pipeline_1/teipublisher/img/webcomponent-nav-html.PNG" description="Wiederverwendung bereits bestehender Webkomponenten" %}
+    In der Dokumentenansicht sehen wir nun, dass die Navigationsbutton noch nicht an gewünschter Stelle sind.
+    {% include image.html url="../data/pipelines/pipeline_1/teipublisher/img/webcomponent-nav-view.PNG" description="Eingefügte Navigationsbuttons" %}
+    Um diese Elemente entsprechend anzupassen, müssen wir die CSS-Informationen ändern. Hier können wir ebenfalls aus dem Template des Demo-Projekts die für das Styling der Navigationsbutton verantwortlichen Regeln übernehmen und in unser projektspezifisches Template übernehmen.
+    {% include image.html url="../data/pipelines/pipeline_1/teipublisher/img/webcomponent-nav-style-html.PNG" description="Übernahme der Stylingregeln aus dem Basis-Template" %}
+    Wir kopieren die Informationen unter die Styling-Informationen für die Faksimile-Webkomponente und ändern dabei noch die Farbe der Navigationsbutton.
+    {% include image.html url="../data/pipelines/pipeline_1/teipublisher/img/webcomponent-nav-style-html.PNG" description="Eingefügte Navigationsbuttons" %}
+    Nach dem Aktualisieren der Publikationsansicht unseres Manuskripts, haben die Buttons nun eine andere Farbe und sind vertikal mittig ausgerichtet.
+    {% include image.html url="../data/pipelines/pipeline_1/teipublisher/img/webcomponent-nav-style-view.PNG" description="Angepasste Navigationsbuttons" %}
+* In der Publikationsansicht möchten wir nun außerdem für die einzelnen Manuskripte auch die Metadaten darstellen. In der Demo-Sammlung haben wir dabei in dem Projekt "Mauritius Ferber" eine ein- und ausklappbare Metadaten-Darstellung gefunden, die wir für unser Projekt nachnutzen wollen. Wir navigieren dafür in eXide zu dem entsprechenden Page-Template (danticus.html). Dort finden wir innerhalb des `<app-header>`-Abschnitts sogar einen Hinweis darauf, dass in der entsprechenden Darstellung die Toolbar, die eigentlich nur das Inhaltsverzeichnis anzeigt, um ein Toggle-Element für die Metadaten ergänzt wurde.
+    {% include image.html url="../data/pipelines/pipeline_1/teipublisher/img/metadata-html-copy.PNG" description="Kopieren der Metadaten-Komponente" %}
+    Um diesen Button in unsem Page-Template zu übernehmen, kopieren wir also die zweite `<app-toolbar>` im `<app-header>` und fügen diese an gleicher Stelle in unser projektspezifisches HTML-Template ein. Wie bei den Copy-Paste-Aktionen für andere Webkomponenten dürfen wir hier ebenfalls nicht vergessen, zusätzlich auch den CSS-Code für die ausklappbare Metadaten-Anzeige zu übernehmen.
+    {% include image.html url="../data/pipelines/pipeline_1/teipublisher/img/metadata-html-paste.PNG" description="Einfügen des Codes für den Metadatenbutton sowie Erweiterung des CSS" %}
+    Wenn wir in der Publikationsansicht unser Browser-Fenster aktualisieren, erscheint nun oben links in der Navigationsleiste ein Metadaten-Button.
+    {% include image.html url="../data/pipelines/pipeline_1/teipublisher/img/metadata-button.PNG" description="Erweiterung der Navigationsleiste um einen Metadaten-Button" %}
+    Um diesen ausklappbaren Seitenbereich mit Metadaten zu füllen, müssen wir jedoch noch ein paar Anpassungen in unserem ODD vornehmen.
+* Wir wechseln also noch mal in den ODD-Editor und suchen dort nach den Modellspezifikationen für den `<teiHeader>`. Wir legen hier ein neues Inline-Modell an und weisen dieses Modell aber mit der XQuery-Angabe  `$parameters?mode=’commentary’`im Predicate darauf hin, dass dieses Modell für die zuvor im HTML-Template angelegte Metadaten-Toggle-Komponente gilt. Im Metadatenbereich möchten wir einerseits Informationen zum Repository, zur Signatur sowie zur physischen Beschreibung des Manuskripts anzeigen. Dementsprechend basteln wir ein Template in HTML mit Überschriften und geben in doppelten eckigen Klammern Platzhalter-Elemente an, denen wir darunter die entsprechenden Parameter zuordnen: Unter [[repository]] im Template sollen schließlich jene Daten angegeben werden, die wir im teiHeader im Element `<repository>` finden. Daher geben wir bei diesem Parameter vom `<teiHeader>` ausgehend den entsprechenden Pfad //repository an. Genauso gehen wir auch für die weiteren Parameter vor. Bei dem `<idno>`-Element müssen wir jedoch etwas genauer spezifizieren, da es einerseits die `<idno>`-Elemente in unserem Register im `<standOff>` gibt, und andererseits aber auch das `<idno>`-Element im `<teiHeader>`. Daher fügen wir hier als XPath-Bedingung noch das Attribut `@type="shelfmark"` hinzu. Zuletzt stellen wir noch sicher, dass es für all die in den Parametern angegebenen Elemente auch tatsächlich Modellspezifikationen gibt. Dabei reicht es, dass es für jedes Element, das wir in den Metadaten ausgeben wollen, ein Inline-Modell existiert.
+    {% include image.html url="../data/pipelines/pipeline_1/teipublisher/img/model-teiheader-odd.PNG" description="Anpassungen des teiHeader-Modells für die Metadatenausgabe" %}
+    Wenn wir schließlich alle Modelle erstellt haben und die Publikationsansicht aktualisieren, erscheint nach einem Klick auf den Metadaten-Button nun auch ein Metadaten-Inhalt.
     {% include image.html url="../data/pipelines/pipeline_1/teipublisher/img/metadata-toggle.PNG" description="Ein- und ausklappbare Metdatenbeschreibung" %}
 
 
